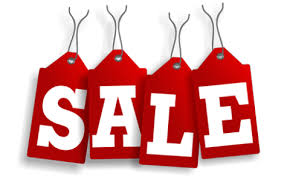
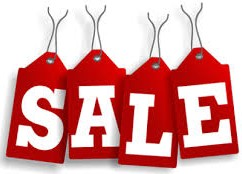
:ribbon: improved image sizes

diff --git a/templates/product.html b/templates/product.html
@@ -5,7 +5,7 @@
 	<script src="https://ajax.googleapis.com/ajax/libs/jquery/3.4.1/jquery.min.js"></script>
 	<title>Mejores precios</title>
 	<link rel="shortcut icon" type="image/ico" href="{{ url_for('static', filename='index.jpeg') }}"/>
-	<link rel="stylesheet" href="{{ url_for('static', filename='styles.css') }}"/>
+	<link rel="stylesheet" href="{{ url_for('static', filename='styles_v6.css') }}"/>
 </head>
 <body>
 	<nav class="navbar navbar-dark bg-primary">
@@ -24,6 +24,9 @@
 		<div class="product-content">
 			<p>{{product.brand}}</p>
 			<p class="product-description">{{product.description}}</p>
+			{% if product.complete_description %}
+				<p>{{product.complete_description}}</p>
+			{% endif %}
 			<hr>
 			<p>{{product.quantity}}</p>
 			<p>{{product.category}}</p>
@@ -80,7 +83,7 @@
 					    <h3 class="card-title">{{ product.description }}</h3>
 					    <div class="best-price">
 					    	<p class="card-text price">{{ product.best_price.price }}</p>
-					    	<p class="card-text">{{ product.best_price.provider.name }}</p>					    	
+					    	<img src="{{ url_for('static', filename=product.best_price.provider.url) }}"/>
 					    </div>
 					  </div>
 					</a>

diff --git a/templates/products.html b/templates/products.html
@@ -5,7 +5,7 @@
 	<script src="https://ajax.googleapis.com/ajax/libs/jquery/3.4.1/jquery.min.js"></script>
 	<title>Mejores precios</title>
 	<link rel="shortcut icon" type="image/ico" href="{{ url_for('static', filename='index.jpeg') }}"/>
-	<link rel="stylesheet" href="{{ url_for('static', filename='styles.css') }}"/>
+	<link rel="stylesheet" href="{{ url_for('static', filename='styles_v6.css') }}"/>
 </head>
 <body>
 	<nav class="navbar navbar-dark bg-primary">

diff --git a/static/styles_v6.css b/static/styles_v6.css
@@ -56,6 +56,9 @@ h4 {
 	font-weight: 501;
 }
 
+.col-sm-4 {
+	margin: 0;
+}
 .navbar-brand {
 	font-weight: bold;
 }
@@ -71,9 +74,14 @@ h4 {
 
 .best-price p {
 	margin-bottom: 0;
+	flex: 1;
 }
 .best-price img {
-	margin-left: 20px;
+	margin-left: 10px;
+	flex: 1;
+	max-width: 100%;
+	height: auto;
+	max-height: 50px;
 }
 
 h2 {

diff --git a/seed.py b/seed.py
@@ -3,9 +3,9 @@ from models import Provider
 
 def create_providers():
     prov1 = Provider(name='Central Mayorista', url='central_mayorista.jpeg')
-    prov2 = Provider(name='Walmart', url='walmart.jpeg')
-    prov3 = Provider(name='La Caserita', url='la_caserita.jpeg', description='Mayorista online')
-    prov4 = Provider(name='Alvi', url='alvi.jpeg', description='Club Mayorista')
+    prov2 = Provider(name='Walmart', url='walmart_m.jpeg')
+    prov3 = Provider(name='La Caserita', url='la_caserita_m.png', description='Mayorista online')
+    prov4 = Provider(name='Alvi', url='alvi_m.jpeg', description='Club Mayorista')
 
     providers = [prov1, prov2, prov3, prov4]
 
